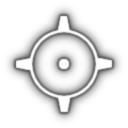
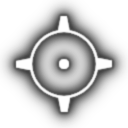
* items overwritable with new items gathered * better crosshair (?)

diff --git a/ParticleStormControl/ParticleStormControl/InGame/Level/Crosshair.cs b/ParticleStormControl/ParticleStormControl/InGame/Level/Crosshair.cs
@@ -16,12 +16,14 @@ namespace ParticleStormControl
         public Vector2 ParticleAttractionPosition { get; set; }
 
         private Texture2D crossHairTexture;
+     //   private Texture2D glowTexture;
 
         public Crosshair (int playerindex, ContentManager contentManager) :
             base(Vector2.One, 0.05f)   // updated every frame, so why care..
         {
             PlayerIndex = playerindex;
-            this.crossHairTexture = contentManager.Load<Texture2D>("basic_crosshair");;
+            this.crossHairTexture = contentManager.Load<Texture2D>("basic_crosshair");
+   //         this.glowTexture = contentManager.Load<Texture2D>("glow");
         }
 
         public override void SwitchPlayer(int[] playerSwitchedTo)
@@ -32,6 +34,10 @@ namespace ParticleStormControl
 
         public override void Draw_AlphaBlended(SpriteBatch spriteBatch, Level level, float totalTimeSeconds)
         {
+            // black glow
+ //           spriteBatch.Draw(glowTexture, level.ComputePixelRect_Centered(ParticleAttractionPosition, Size * 1.5f), null, new Color(0.5f, 0.5f, 0.5f, 0.5f));
+
+            // background
             Color color = Settings.Instance.GetPlayerColor(PlayerIndex);
             spriteBatch.Draw(crossHairTexture, level.ComputePixelRect(ParticleAttractionPosition, Size), null, color,
                                 -totalTimeSeconds, new Vector2(crossHairTexture.Width * 0.5f, crossHairTexture.Height * 0.5f),

diff --git a/ParticleStormControl/ParticleStormControl/InGame/Level/Level.cs b/ParticleStormControl/ParticleStormControl/InGame/Level/Level.cs
@@ -237,7 +237,7 @@ namespace ParticleStormControl
                 double nearestDist = spawnPositions.Min(x => { return x == pos ? 1 : (x - pos).LengthSquared(); });
 
                 float capturesize = (float)(100.0 + nearestDist * nearestDist * 25000);
-                capturesize = Math.Min(capturesize, 1300);
+                capturesize = Math.Min(capturesize, 1100);
 
                 spawnPoints.Add(new SpawnPoint(pos, capturesize, (float)Math.Sqrt(nearestDist), - 1, content));
             }
@@ -358,12 +358,12 @@ namespace ParticleStormControl
                     if (item != null && !item.Timeouted && item.PossessingPlayer != -1 && item.PossessingPercentage == 1.0f)
                     {
                         // reject if player allready owns a item
-                        if (players[item.PossessingPlayer].ItemSlot != Item.ItemType.NONE)
+                      /*  if (players[item.PossessingPlayer].ItemSlot != Item.ItemType.NONE)
                         {
                             item.Alive = true;
                             continue;
                         }
-                        else
+                        else */
                         {
                             players[item.PossessingPlayer].ItemSlot = item.Type;
                             // statistics
